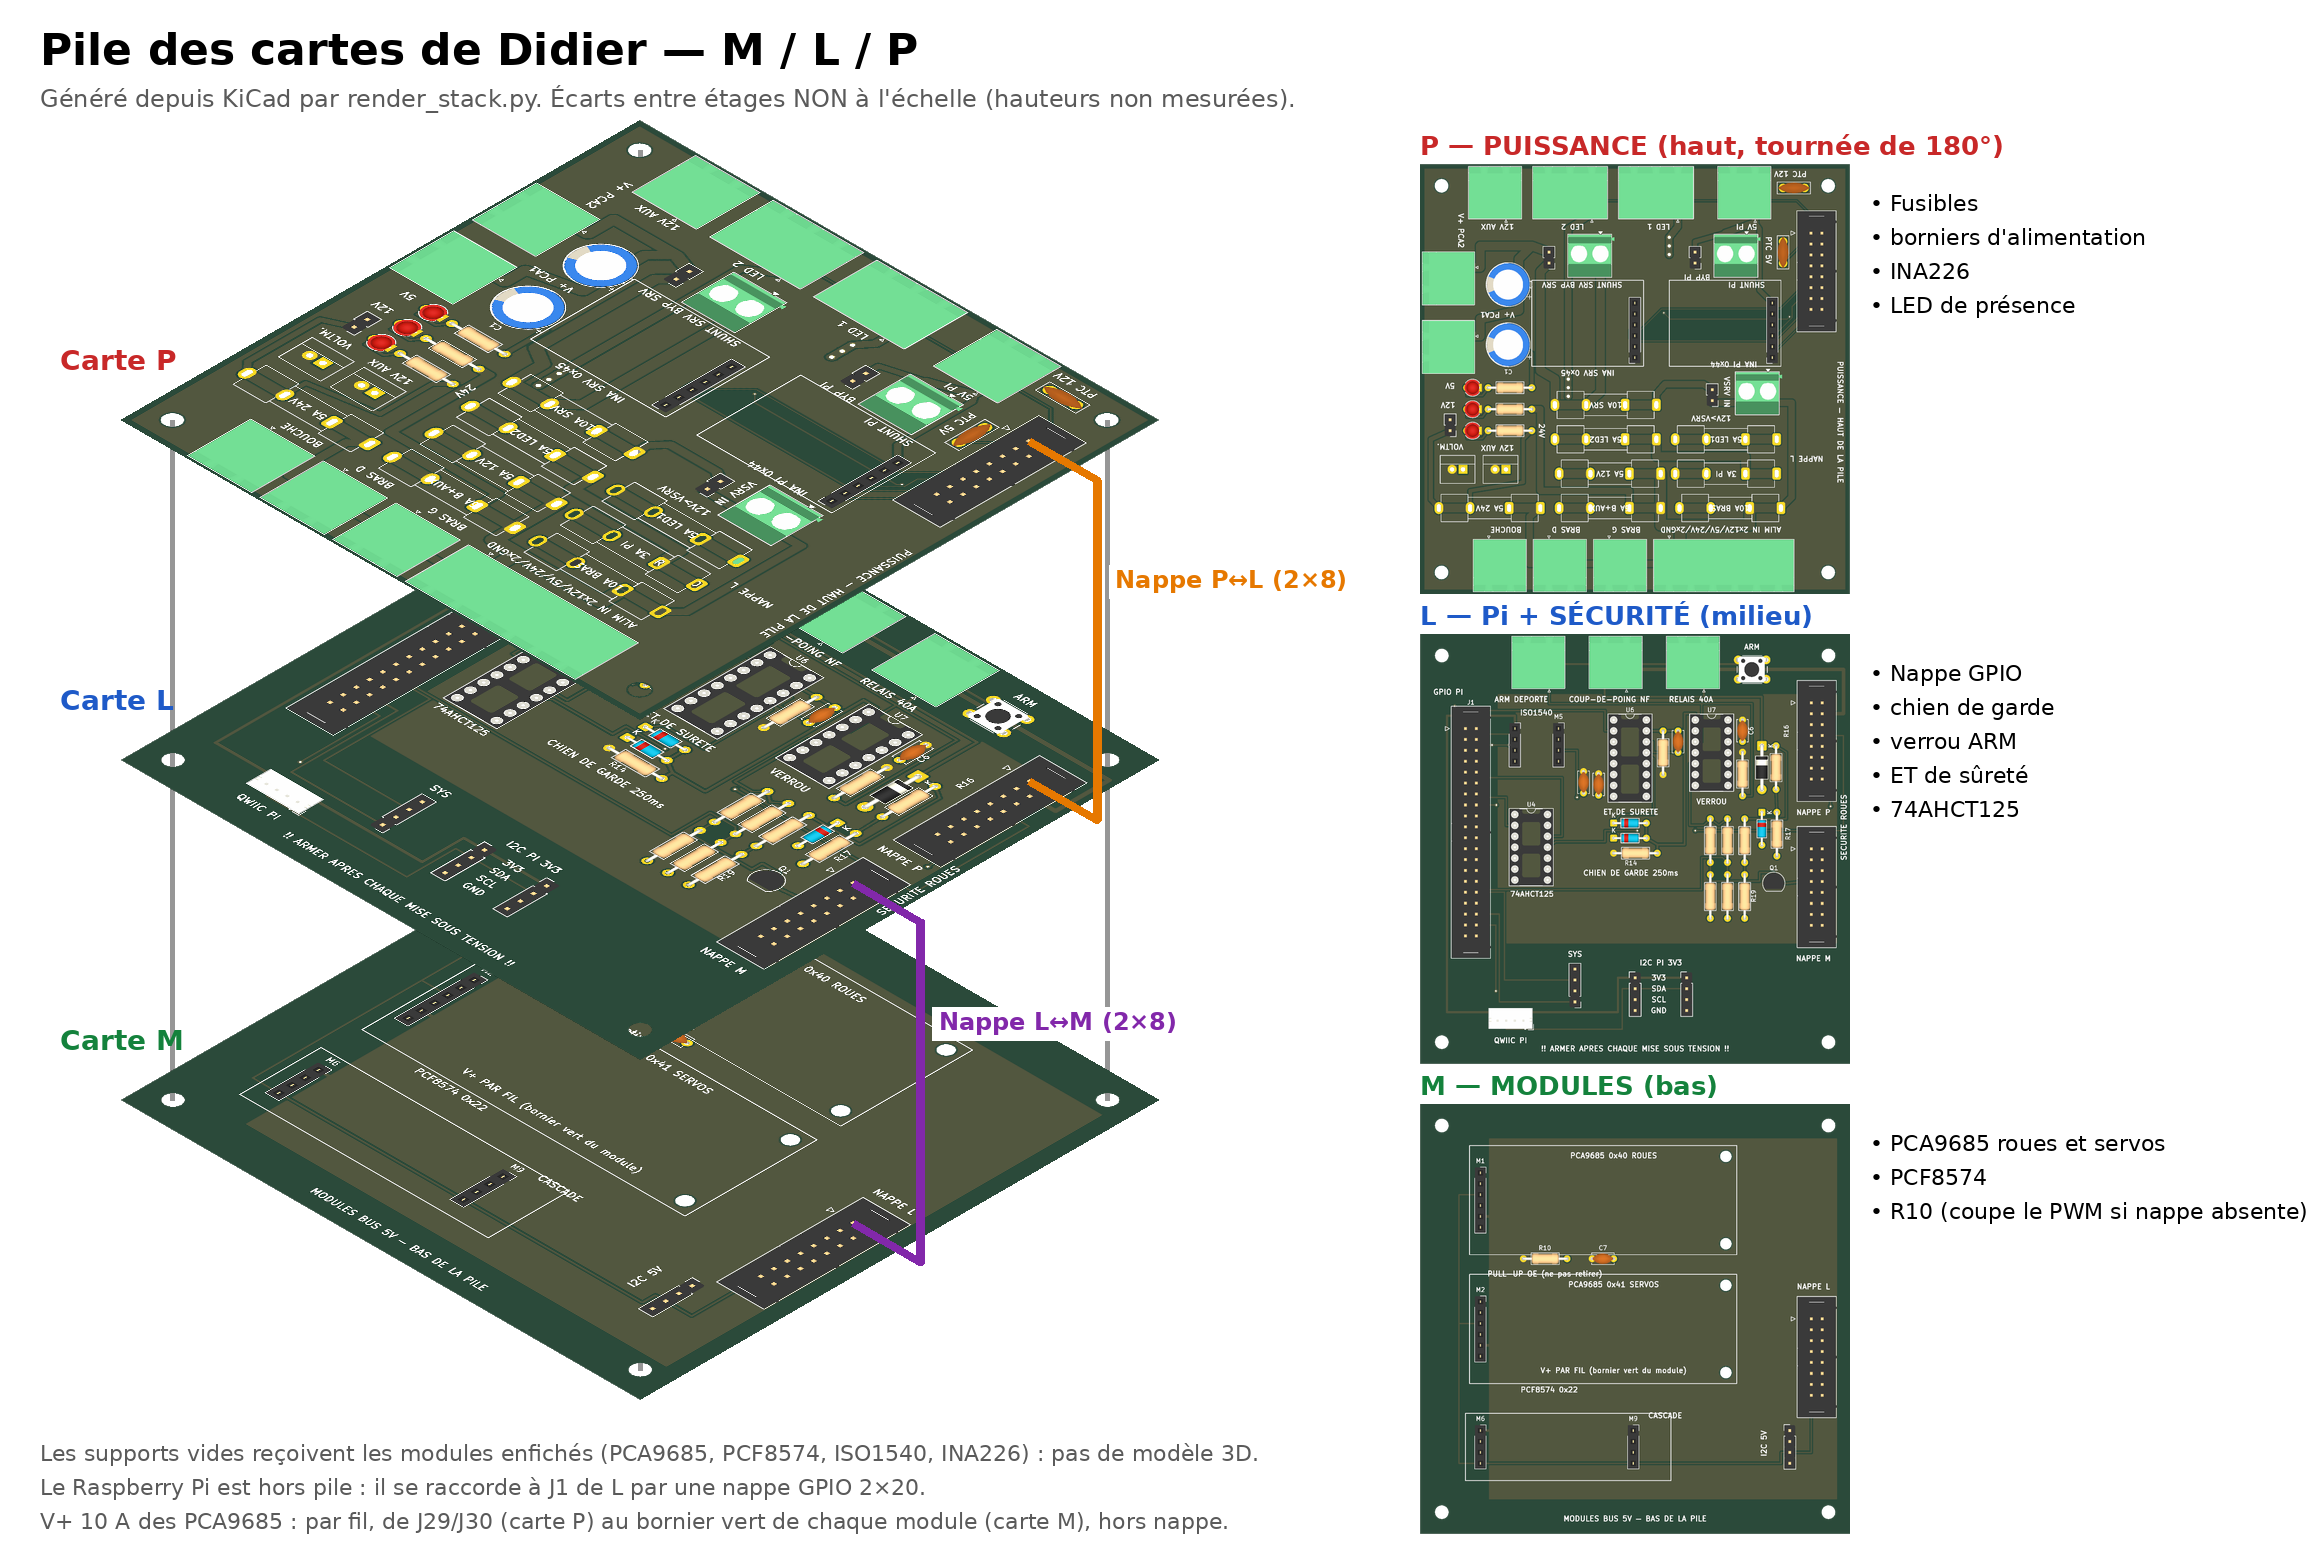
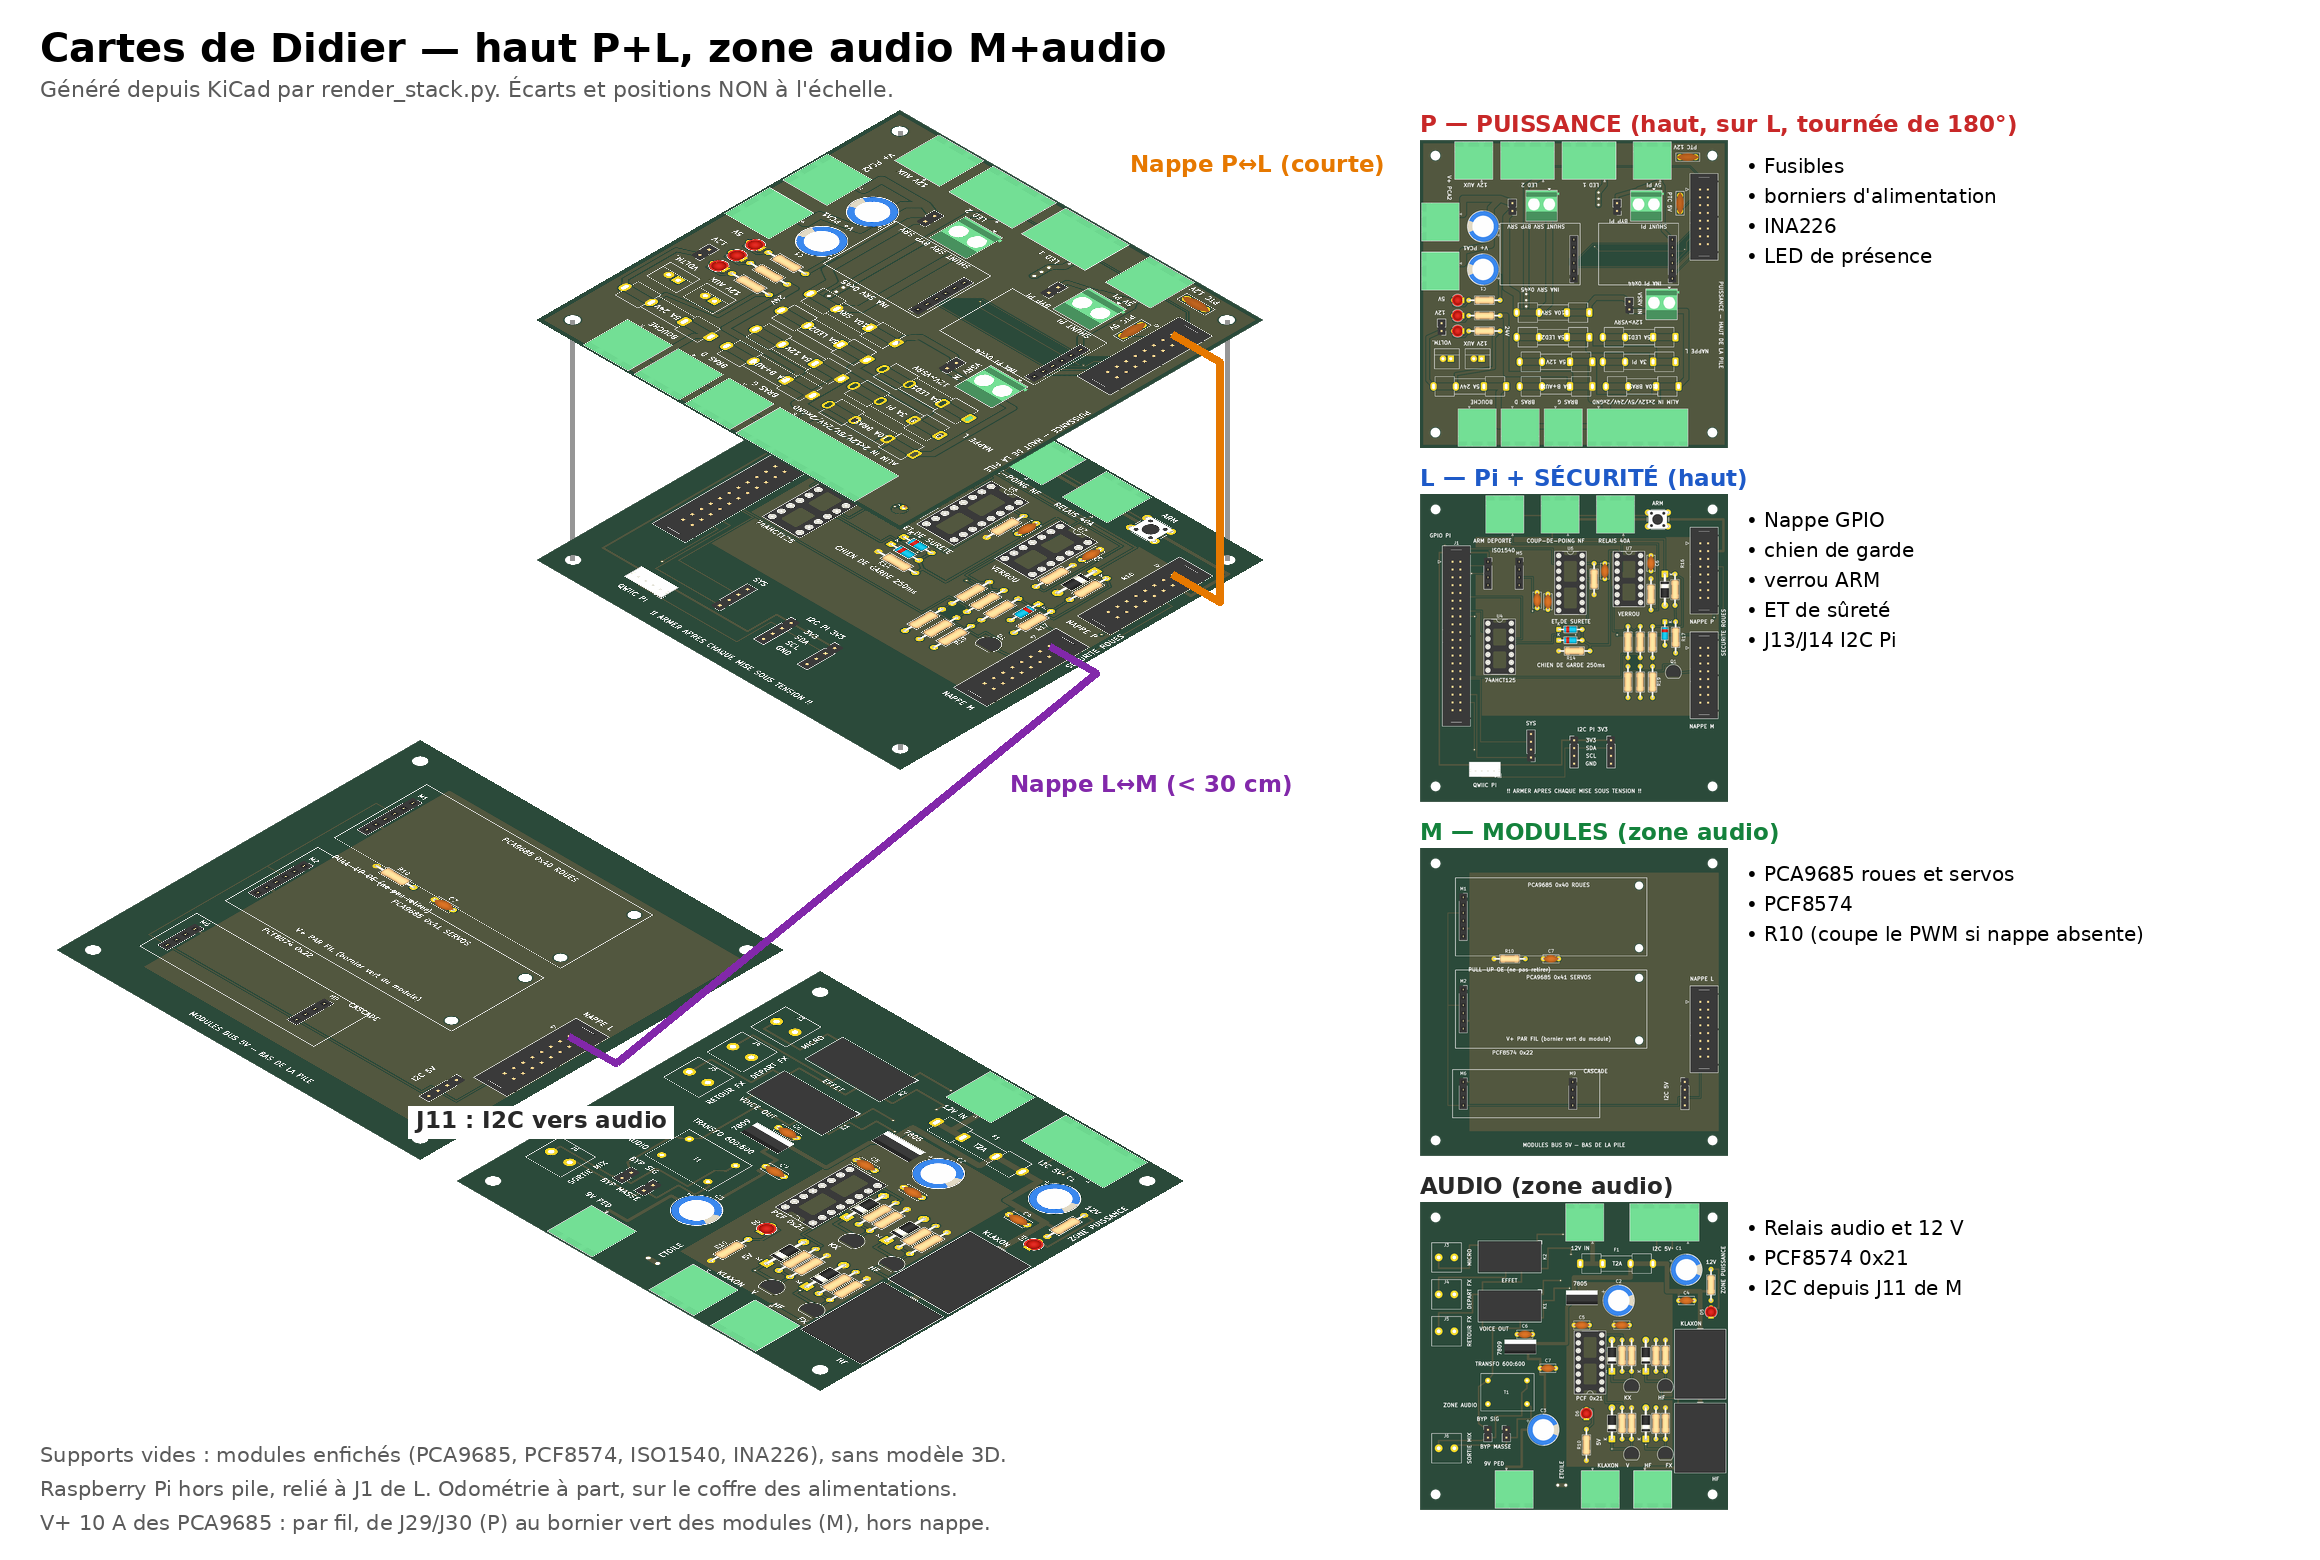
Cartes : implantation haut P+L, zone audio M+audio, et ce qu'elle implique
Répartition choisie par l'agent à la demande de David : la seule liaison longue est
L↔M, dont la coupure est sûre, et P reste loin de l'audio. Chute de tension négligeable.
Point trouvé : OE_WHEELS voisin de SCL sans masse entre eux, acceptable sur 3 cm, pas
sur 30 cm. Correction proposée (échanger les broches 7 et 8), non appliquée.

diff --git a/legacy/dadou_robot_ros/docs/hardware/plan-verification-cartes.md b/legacy/dadou_robot_ros/docs/hardware/plan-verification-cartes.md
@@ -32,6 +32,34 @@ schémas, pas que les schémas sont justes ni que les pièces rentrent.
 > les nouveaux Gerber de L. **Commande suspendue par David le 05/11 : les vérifications
 > d'abord.**
 
+## 1 bis. Implantation décidée le 05/11 : haut P+L, zone audio M+audio
+
+David veut deux cartes en haut et deux vers l'audio, nappe de moins de 30 cm, répartition
+laissée à l'agent. Plan : `plan-pile-cartes.png`. Ce choix annule le §4 de l'étude 100×100
+pour M (la pile à trois) ; P sur L ne bouge pas. L'odométrie reste sur le coffre des alims.
+
+Pourquoi celle-là : la seule liaison longue est L↔M, dont la coupure est sûre (R10 sur M
+coupe les PWM) ; P, ses fusibles et ses 10 A restent loin de l'audio ; J11 (I²C vers
+`audio-relays`) arrive à côté de sa cible. Mettre P près de l'audio aggravait la ronflette ;
+éloigner L des deux autres doublait les nappes longues.
+
+Conséquences :
+
+| Sujet | Effet |
+|---|---|
+| Cartes | **aucune à refaire** ; seule la sérigraphie « BAS DE LA PILE » de M est à corriger |
+| +5V et GND de la nappe, 30 cm de 28 AWG (≈ 0,213 Ω/m) | 32 mΩ (2 fils) + 21 mΩ (3 fils) : 16 mV à 0,3 A, négligeable |
+| I²C 5 V sur 30 cm | à contrôler à l'oscillo au banc (fronts) ; un Hantek est disponible |
+| **OE_WHEELS (broche 7) voisin de SCL (broche 6)**, sans masse entre eux | **à corriger** : voir ci-dessous |
+| Fils V+ 10 A vers les PCA9685 | plus longs et **près de l'audio** : courants de servos pulsés. Paire torsadée, passés loin de MIC et du transfo |
+| Coupure de la nappe | nouveau mode de panne réaliste (câble long dans le robot) : à inclure au protocole caméra |
+
+**OE_WHEELS** : R10 (10 kΩ) tient OE haut quand Q1 est ouvert, donc le signal de sûreté est à
+haute impédance, le long du fil d'horloge I²C actif en permanence. Sans risque sur 3 cm, à
+ne pas laisser sur 30 cm. Correction proposée : échanger les broches 7 et 8 de la nappe L↔M
+(GND en 7, OE en 8, la 9 est libre), ce qui met une masse entre SCL et OE. Touche la route
+d'OE sur L et M, donc les deux cartes repassent tous les contrôles et la relecture.
+
 ## 2. BLOQUANT trouvé — carte P : les pistes des départs 10 A sont trop étroites
 
 Mesuré dans `carrier-p.kicad_pcb` : aucun plan de cuivre sur les rails de puissance
